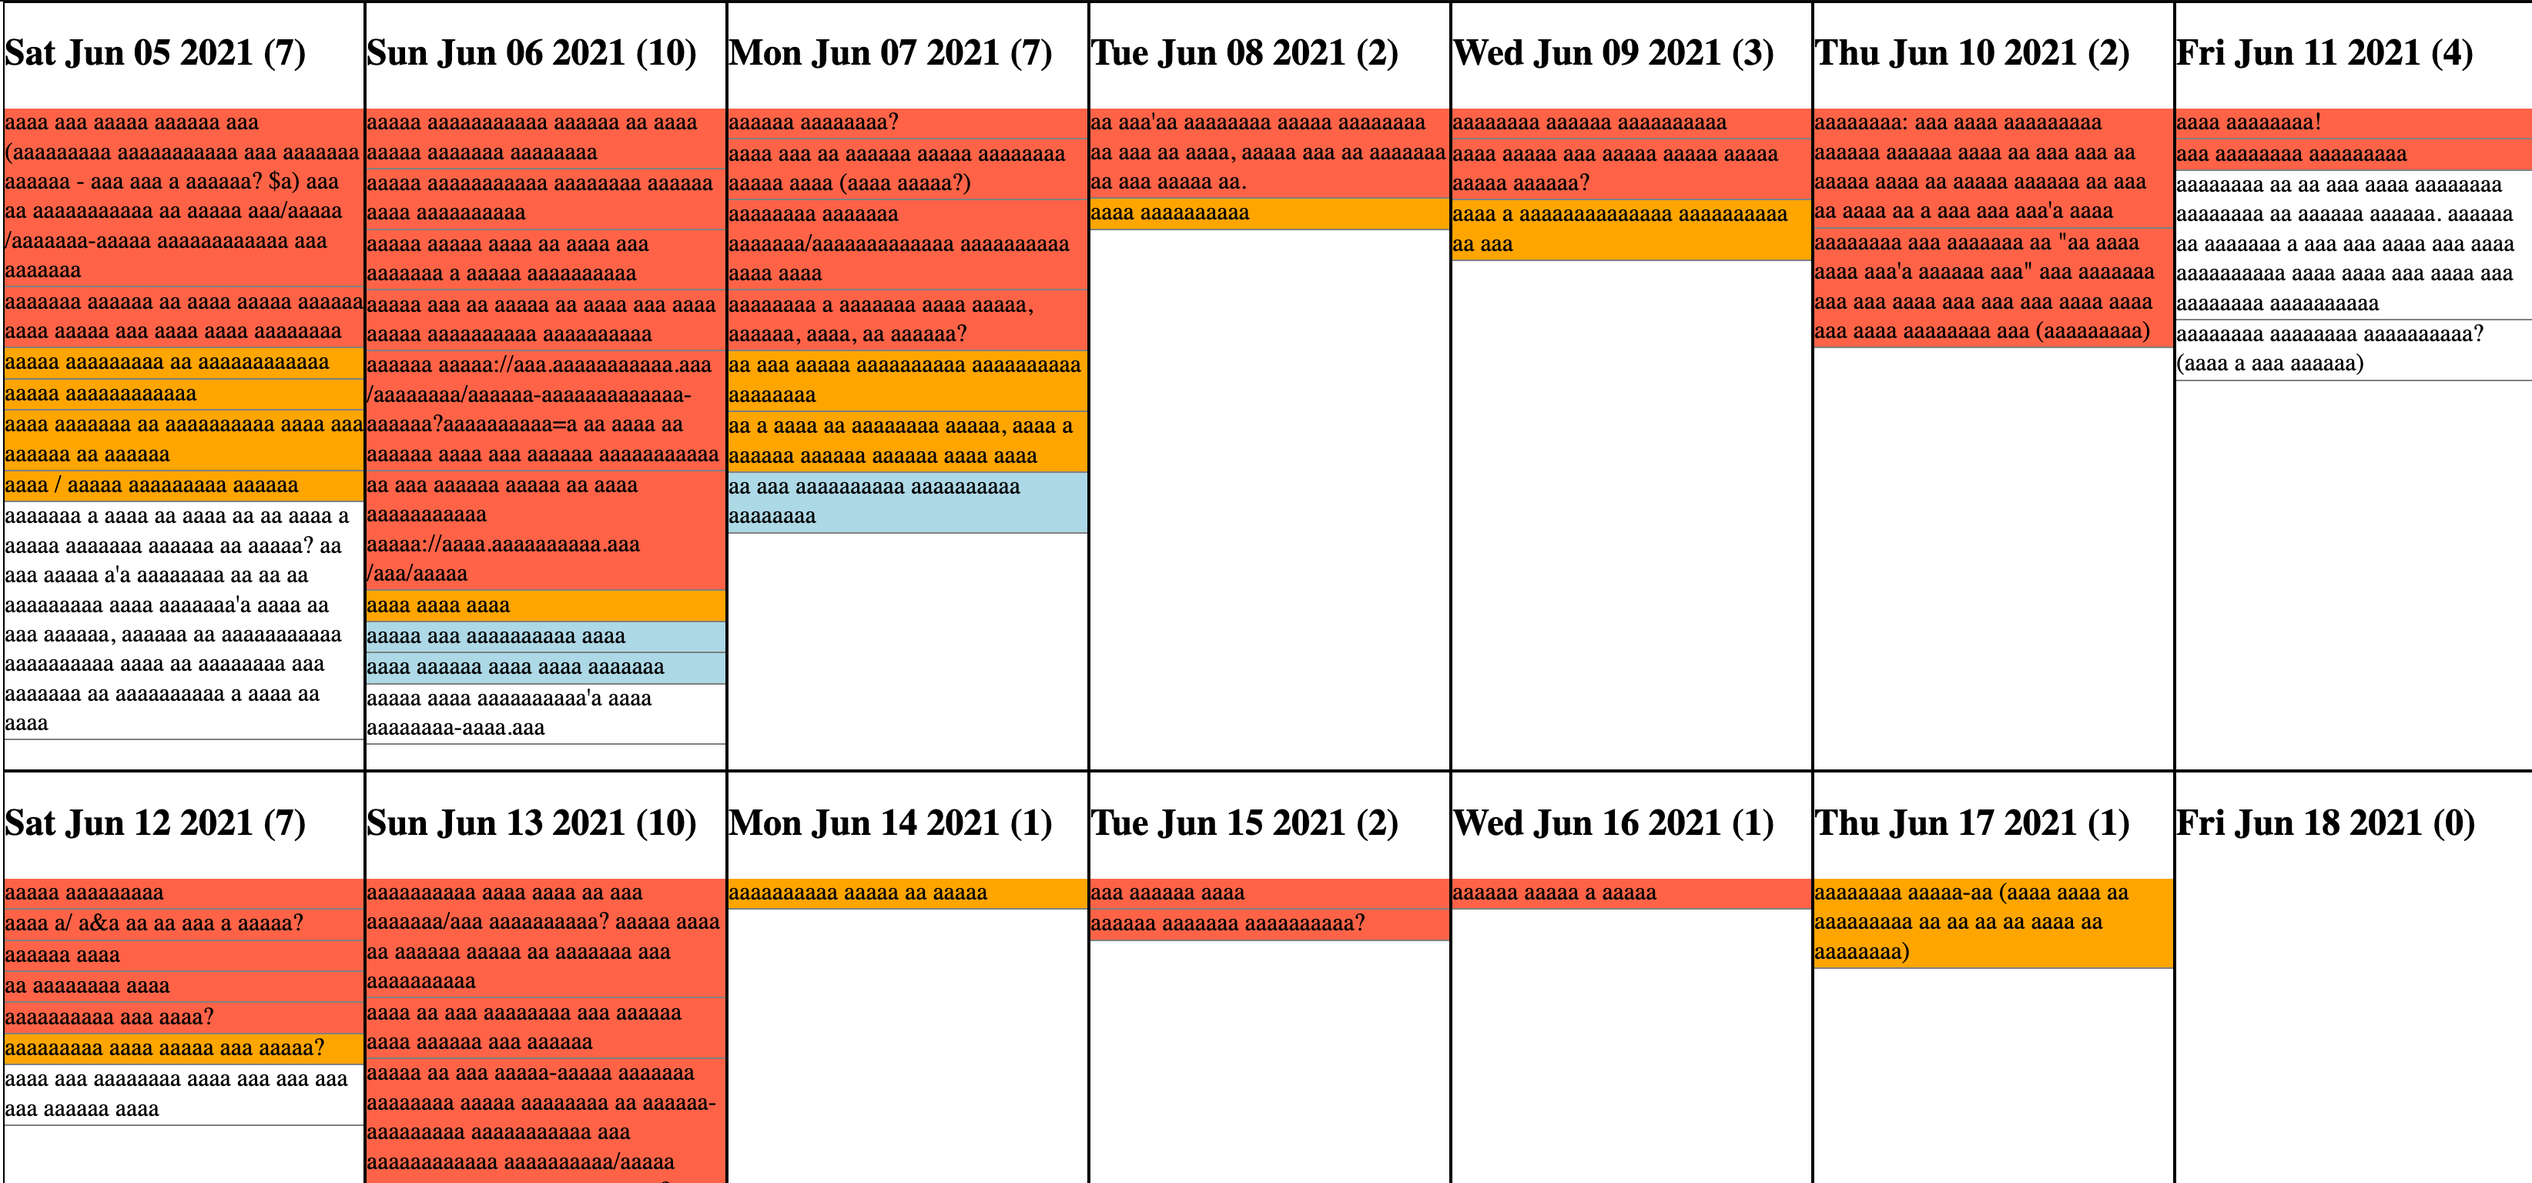
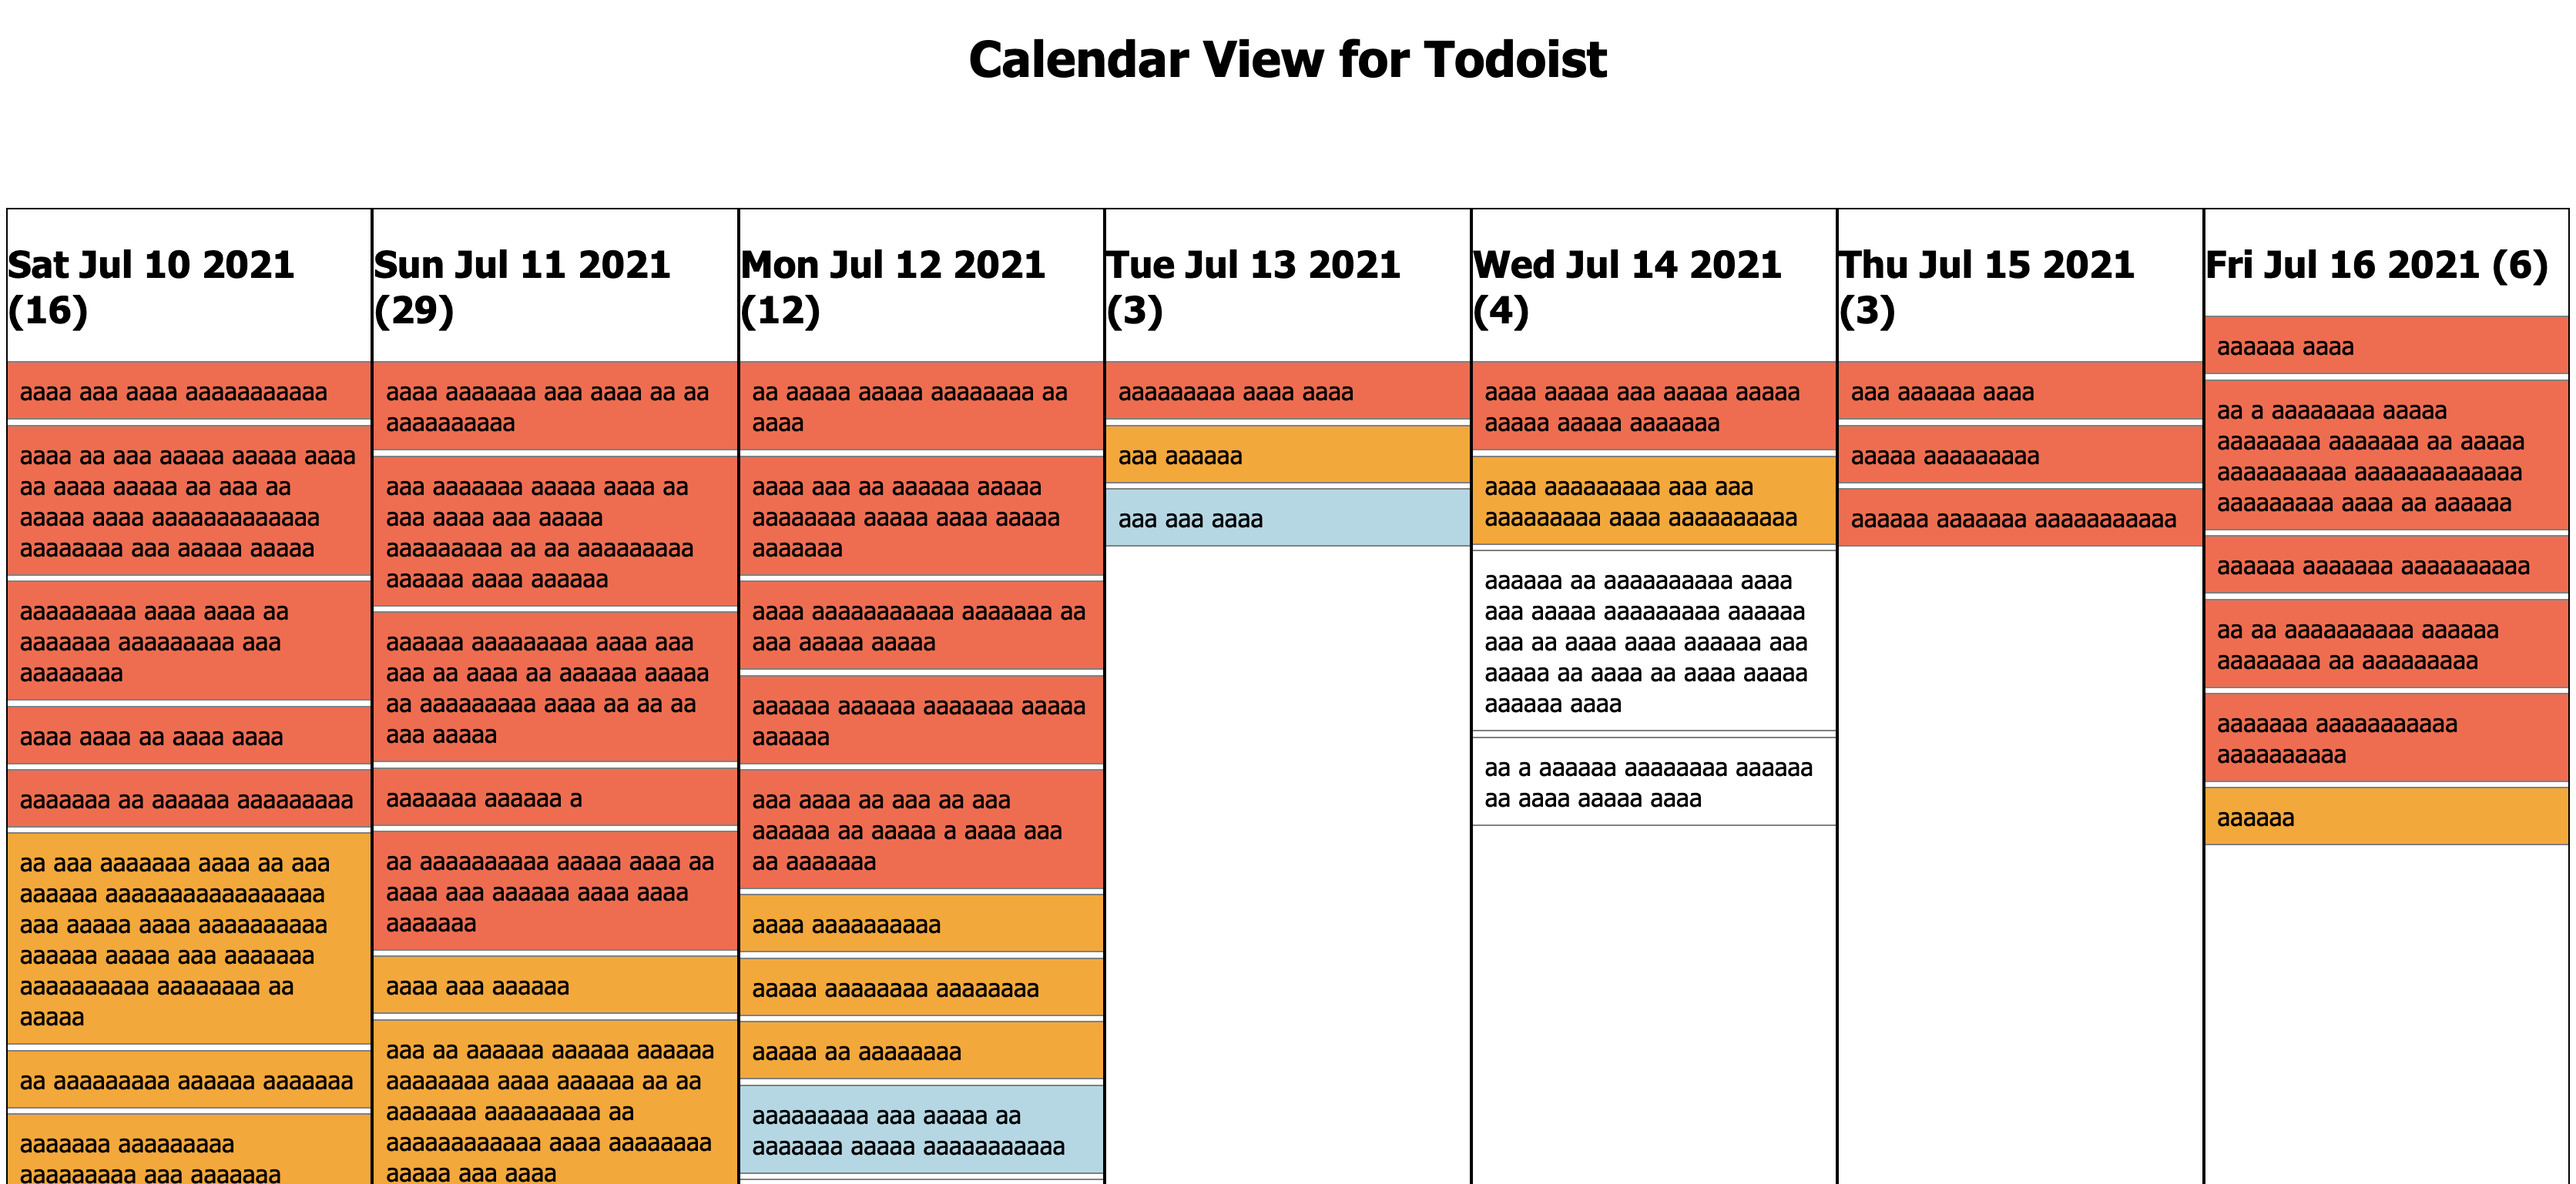
Improve aesthetics and add loading indicator

diff --git a/calendar.js b/calendar.js
@@ -81,6 +81,22 @@ const getDateColumn = async (date) => {
     return section
 }
 
+const showLoadingSpinner = () => {
+    const loadingSpinner = document.createElement("img")
+    loadingSpinner.src = "loading.gif"
+    loadingSpinner.className = "loading-spinner"
+    const spinnerContainer = document.createElement("div")
+    spinnerContainer.className = "loading-container"
+    
+    spinnerContainer.appendChild(loadingSpinner)
+    document.body.appendChild(spinnerContainer)
+    return spinnerContainer
+}
+
+const removeLoadingSpinner = (loadingSpinner) => {
+    document.body.removeChild(loadingSpinner)
+}
+
 const renderWeekTable = async (startDate) => {
     const dates = [startDate]
     for (let i = 1; i < 7; i++) {
@@ -89,11 +105,15 @@ const renderWeekTable = async (startDate) => {
     const row = document.createElement("div")
     row.className = "row"
 
+    const spinner = showLoadingSpinner(row)
+
     for (const date of dates) {
         const col = await getDateColumn(date)
         row.appendChild(col)
     }
     calendar.appendChild(row)
+
+    removeLoadingSpinner(spinner)
 
     numRows++
 }

diff --git a/calendar.css b/calendar.css
@@ -1,3 +1,30 @@
+body {
+    font-family:'Segoe UI', Tahoma, Geneva, Verdana, sans-serif
+}
+
+.loading-spinner {
+    z-index: 3;
+    position: fixed;
+    left: 50vw;
+    top: 50vh;
+}
+
+.loading-container {
+    width: 100vw;
+    height: 100vh;
+    position: fixed;
+    top: 0;
+    left: 0;
+    opacity: 0.5;
+    background-color: #ffffff;
+    z-index: 2;
+}
+
+h1 {
+    text-align: center;
+    min-height: 3em;
+}
+
 #calendar .row {
     display: flex;
 }
@@ -9,8 +36,10 @@
 
 li {
     list-style-type: none;
-    /* margin-bottom: 1px; */
+    border-top: 1px solid grey;
     border-bottom: 1px solid grey;
+    margin-bottom: 0.2rem;
+    padding: 0.5rem;
 }
 
 button {
